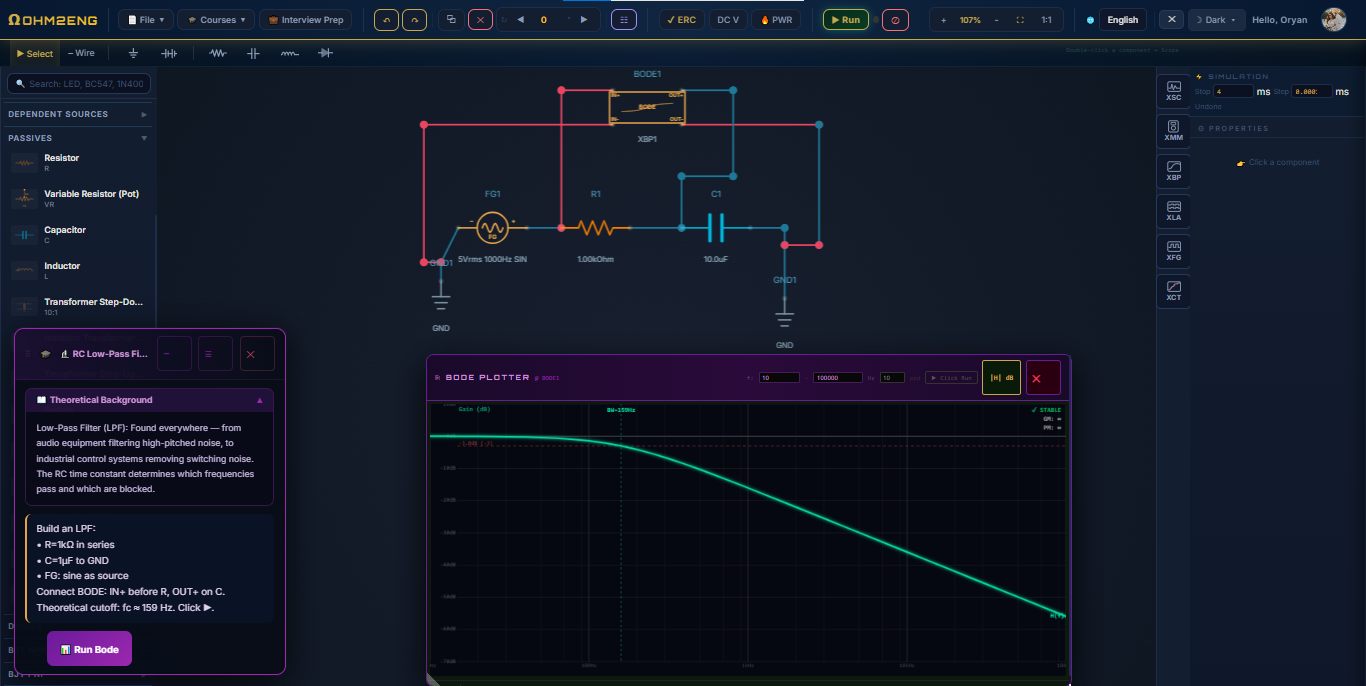
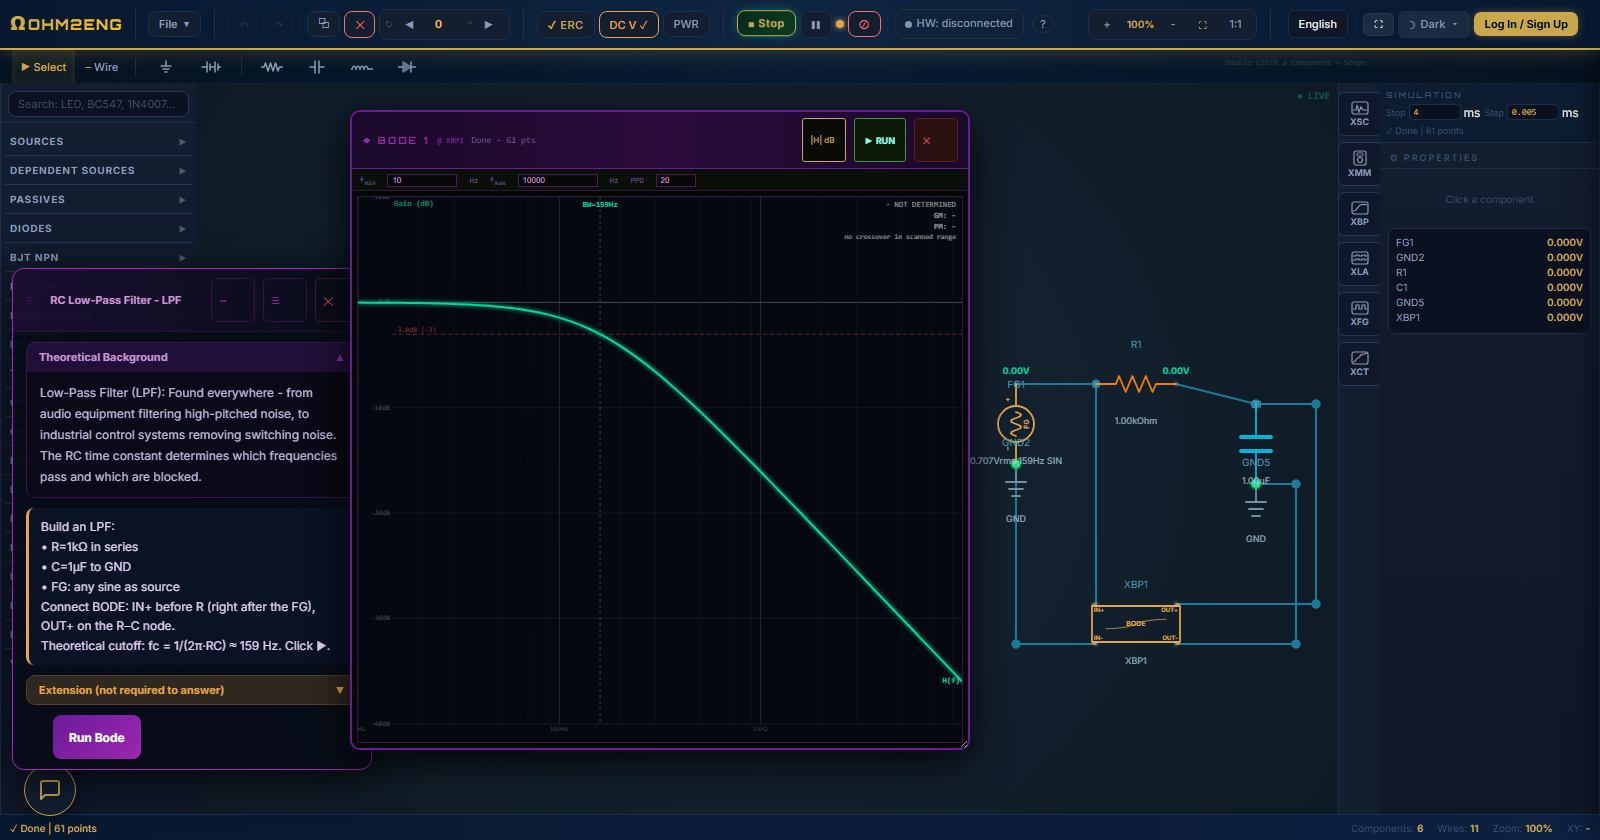
docs: refresh the three screenshots from the current app
Recaptured against the live app: the XOR scene now shows the live HDL
preview emitting CHIP Xor beside the gates that produced it, and the
rectifier caption names the trace colours correctly (blue input, red
rectified output).

diff --git a/README.md b/README.md
@@ -13,7 +13,7 @@
 
 ![OHM2ENG - a diode rectifier circuit simulated live, with the oscilloscope showing input vs. rectified output](docs/screenshot.png)
 
-<sub>*A half-wave rectifier running live - the oscilloscope shows the input sine (red) against the rectified output, solved server-side and drawn back in the browser.*</sub>
+<sub>*A half-wave rectifier running live - the oscilloscope shows the input sine (blue) against the rectified output (red), solved server-side and drawn back in the browser.*</sub>
 
 ---
 
@@ -35,9 +35,9 @@ OHM2ENG does two big things:
 
 2. **An electrical-engineering & CS learning platform.** A 16-lecture digital-circuits course; a comprehensive **computer-architecture course** whose *first part* is building a working computer from a single NAND logic gate up (through **Hack**, a **VM**, and a **Jack compiler**), and which then goes well beyond that foundation into **RISC-V, datapath & control, pipelining, caches, and virtual memory** - with genuine emulators at every layer; **job-interview prep** (a career center of graded EE/CS questions); and interactive labs - all wrapped in a Leitner **spaced-repetition** scheduler, cloud progress sync, and plan tiers (Guest / Pro).
 
-![Building an XOR gate from NOT, AND, and OR gates in the computer-architecture course](docs/screenshot-logic.png)
+![Building an XOR gate from NOT, AND, and OR gates in the computer-architecture course, with the live HDL preview showing the chip the drawing describes](docs/screenshot-logic.png)
 
-<sub>*The computer-architecture course in action: build an XOR gate from NOT / AND / OR primitives, then have it graded against its full truth table - one step on the path from a single logic gate up to a working CPU.*</sub>
+<sub>*The computer-architecture course in action: build an XOR gate from NOT / AND / OR primitives, watch the live HDL preview write the `CHIP Xor` definition as you wire it, then have it graded against its full truth table - one step on the path from a single logic gate up to a working CPU.*</sub>
 
 ---
 
